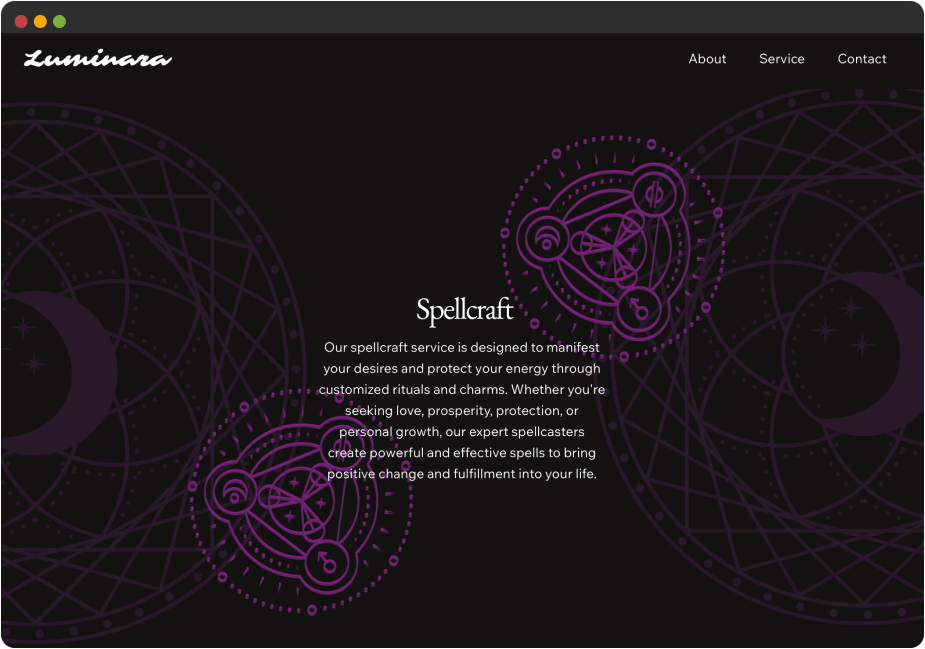
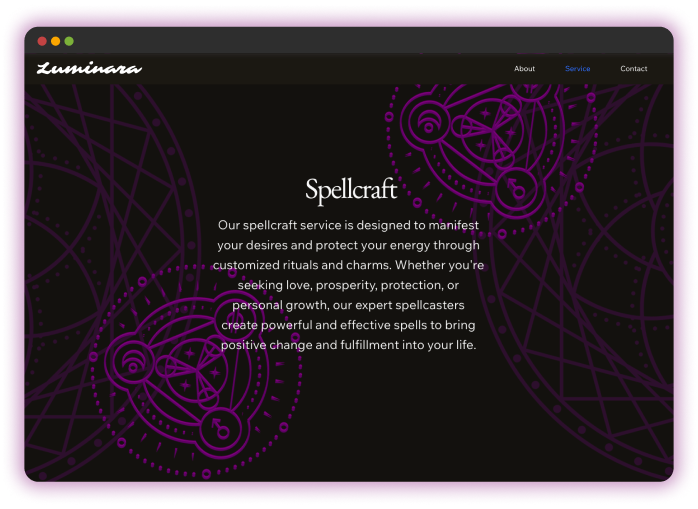
fixed mobile layout, added several new projects

diff --git a/script.js b/script.js
@@ -57,7 +57,7 @@ const mydata = [
             png: './images/motorcycle.png'
         },
         color: {
-            primary: 'black',
+            primary: '#03080A',
             text:'#55CCFF'
         }
     },{width: 3,name: "Circular Maze Generator",
@@ -80,25 +80,25 @@ const mydata = [
             primary: '#0D0D05',
             text:'yellow'
         }
-    },*/{width: 1,name: "Citilink In-Flight Entertainment",
+    },*/{width: 1,name: "Citilink In-Flight App",
         type: "Prototype",
         year: 2014,
         images: {
             png: './images/citilink.png'
         },
         color: {
-            primary: '#235521',
+            primary: '#028540',
             text:'white'
         }
-    },{width: 1,name: "Luminara",
+    },{width: 2,name: "Luminara",
         type: "Web Design",
         year: 2024,
         images: {
             png: './images/luminara.png'
         },
         color: {
-            primary: '#31184E',
-            text:'white'
+            primary: '#460B61',
+            text:'#DD00C7'
         }
     },{width: 3,name: "Cineclub",
         type: "Mobile App",
@@ -109,6 +109,56 @@ const mydata = [
         color: {
             primary: '#B92981',
             text:'#FFCC19'
+        }
+    },{width: 1,name: "Parlemen Muda",
+        type: "Brand Identity",
+        year: 2024,
+        images: {
+            png: './images/parlemenmuda.jpg'
+        },
+        color: {
+            primary: '#A60F01',
+            text:'#FFFFFF'
+        }
+    },{width: 1,name: "StudentsxCEOs",
+        type: "Brand Identity",
+        year: 2024,
+        images: {
+            png: './images/sxc.png'
+        },
+        color: {
+            primary: '#090A6C',
+            text:'#FFFFFF'
+        }
+    },{width: 1,name: "Tech Talk",
+        type: "Brand Identity",
+        year: 2011,
+        images: {
+            png: './images/techtalk.png'
+        },
+        color: {
+            primary: '#13889D',
+            text:'#F9CF55'
+        }
+    },{width: 3,name: "Travel Photography",
+        type: "",
+        year: 2024,
+        images: {
+            full: './images/photography/photo'+Math.ceil(Math.random()*15)+'.jpg'
+        },
+        color: {
+            primary: 'grey',
+            text:'#FFFFFF'
+        }
+    },{width: 2,name: "Labs Project",
+        type: "Brand Identity",
+        year: 2010,
+        images: {
+            full: './images/labsproject.png'
+        },
+        color: {
+            primary: '#FFA723',
+            text:'white'
         }
     }
 ];
@@ -124,18 +174,18 @@ for (let d of mydata) {
 
 function createDiv (item) {
     const element = document.createElement("div");
-    element.setAttribute("class", "items");
-
-    //if 1 --> 23
-    //if 2 --> 49
-
-    //console.log('createDiv for');
-    //console.log(item);
-    element.style.flex = ""+((item.width==2) ? 45 : 22)+"vw";
-    element.style.maxWidth = ""+((item.width==2) ? 45 : 22)+"vw";
-    if (item.width == 3) {
-        element.style.maxHeight = "45vw";
-        element.style.flex = "1 1 45vw";
+    switch (item.width) {
+        case 1:
+            element.setAttribute("class", "items square");
+            break;
+        case 2:
+            element.setAttribute("class", "items long");
+            break;
+        case 3:
+            element.setAttribute("class", "items tall");
+            break;
+        default:
+            element.setAttribute("class", "items square");
     }
 
     const content = document.createElement("div");

diff --git a/style.css b/style.css
@@ -105,10 +105,10 @@ button {
     position: static;
 }
 h1 {
-    font-size: 38px;
+    font-size: 6vw;
     font-weight: 700;
-    line-height: 44px;
-    margin: 10px 0;
+    line-height: 95%;
+    margin: 2vw 0;
 }
 .smalltext {
     font-size:small;
@@ -122,6 +122,7 @@ h1 {
     align-items: flex-start;
     margin: 1vw 0 1vw 0;
     display: flex;
+    min-width:300px;
 }
 .group {
     grid-column-gap: 1vw;
@@ -144,10 +145,12 @@ h1 {
     display: flex;
     transition: transform .4s;
     border-radius: 2vw;
-    border: 1px solid var(--border-color);    
+    /*border: 1px solid var(--border-color);    */
+    box-shadow: rgba(0, 0, 0, 0.1) 0px 0px 0px 1px;
     background-position: center;
     background-size: cover;
     background-repeat: no-repeat;
+    image-rendering: optimizeQuality;
     height: 22vw;
     &:hover {
         box-shadow: 0 5px 10px -5px rgba(0, 0, 0, .4);
@@ -158,18 +161,33 @@ h1 {
         }
     }
 }
+.square {
+    max-width:22vw;
+    flex: 1 1 22vw;
+}
+.long {
+    max-width:45vw;
+    flex: 1 1 45vw;
+}
+
+.tall {
+    max-width:22vw;
+    max-height:45vw;
+    flex: 1 1 45vw;
+}
+
 .content {
     width: 100%;
     display: block;
     position: relative;
     text-align: center;
     img {
-        max-height:77%;
-        max-width:77%;
+        max-height:70%;
+        max-width:70%;
         position: absolute;
         top: 50%;
         left: 50%;
-        transform: translate(-50%, -50%)
+        transform: translate(-50%, -50%);
     }
     span {
         visibility:hidden;
@@ -190,11 +208,44 @@ h1 {
 }
 
 @media screen and (width<=800px){
-    .items{
-        flex:90% !important;
-        max-width:99% !important;
-        height: 44vw !important;
+    .group {
+        flex:1 1 89vw !important;
+        max-width:89vw !important;
+        height: 89vw !important;
         border-radius: 4vw;
+        max-height: 89vw;
+    }
+    h1 {
+        font-size:11vw;
+    }
+    .items {
+        height:44vw;
+        &:hover {
+            box-shadow: unset;
+            transform: none;
+            .content span {
+                visibility:visible;
+                opacity:0;
+            }
+        }
+    }
+    .content span {
+        visibility: visible;
+        opacity:0;
+    }
+    .square {
+        max-width:44vw;
+        flex: 1 1 44vw;
+    }
+    .long {
+        max-width:89vw;
+        flex: 1 1 89vw;
+    }
+    
+    .tall {
+        max-width:44vw;
+        max-height:89vw;
+        flex: 1 1 89vw;
     }
     .navitems{
         display:none;

diff --git a/index.html b/index.html
@@ -19,8 +19,10 @@
                 </div>
             </a>
             <ul class="navitems">
-                <li><a href='#works'>Works</a></li>
-                <li><a href='#about'>About</a></li>
+                <li>Product</li>
+                <li>Brand</li>
+                <li>Game</li>
+                <li>Photography</li>
                 <li><button>Contact</button></li>
             </ul>
         </nav>
@@ -28,15 +30,15 @@
     <main class="container">
         <div class="gallery">
             <div class="gallerynav">
-                <h1>Works</h1>
+                <h1>Hello!<br>I'm Nanda.<br>I do design, code,<BR>and many other things.</h1>
+                <!--
                 <ul class="navitems smalltext">
-                    <li>Featured</li>
                     <li>Product</li>
                     <li>Brand</li>
-                    <li>Motion</li>
-                    <li>Prototype</li>
-                    <li>Campaign</li>
+                    <li>Game</li>
+                    <li>Cinema</li>
                 </ul>
+                -->
             </div>
             <div class="collection" id="collection">
             </div>
